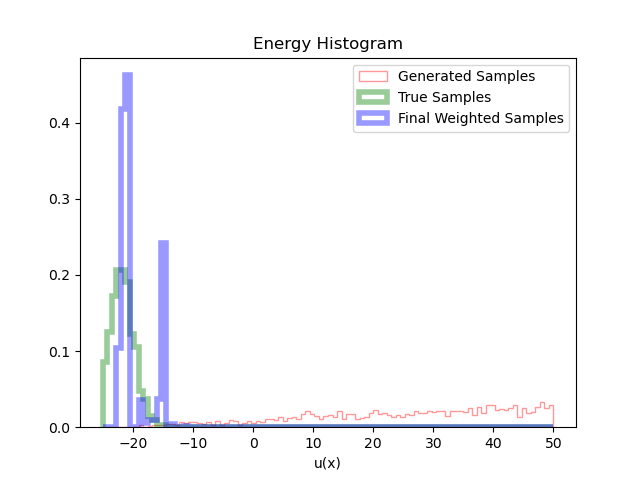
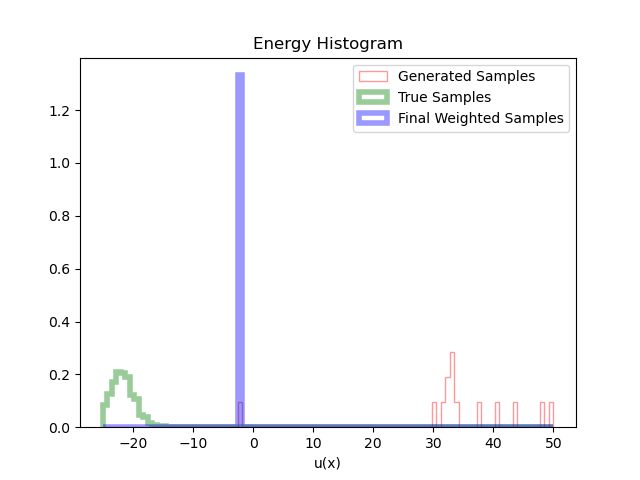
done with the plots

diff --git a/eval_and_plot.py b/eval_and_plot.py
@@ -186,8 +186,8 @@ def plot_generating_flow(args, data, flow, prior, target, latent, samples, model
             linewidth=4,
             label='True Samples');
     
-        # plt.hist(energies_bg, bins=100, density=True, range=(min_energy, 50), alpha=0.4, histtype='step', linewidth=4,
-            # color="b", label="Final Weighted Samples", weights=np.exp(-log_w));
+        plt.hist(energies_bg, bins=100, density=True, range=(min_energy, 50), alpha=0.4, histtype='step', linewidth=4,
+            color="b", label="Final Weighted Samples", weights=np.exp(-log_w));
 # 
         plt.xlabel("u(x)", fontsize=10)
         # plt.xticks([...])
@@ -195,7 +195,7 @@ def plot_generating_flow(args, data, flow, prior, target, latent, samples, model
         plt.title('Energy Histogram')
         plt.legend(fontsize=10)
 
-        save_best_path = f"final_generated_hists/model_{model_name}_lamb_{lamb}.png"
+        save_best_path = f"final_generated_hists/model_{model_name}_lamb_{lamb}_with_weights.png"
         os.makedirs(os.path.dirname(save_best_path), exist_ok=True)
         plt.savefig(save_best_path)
 
